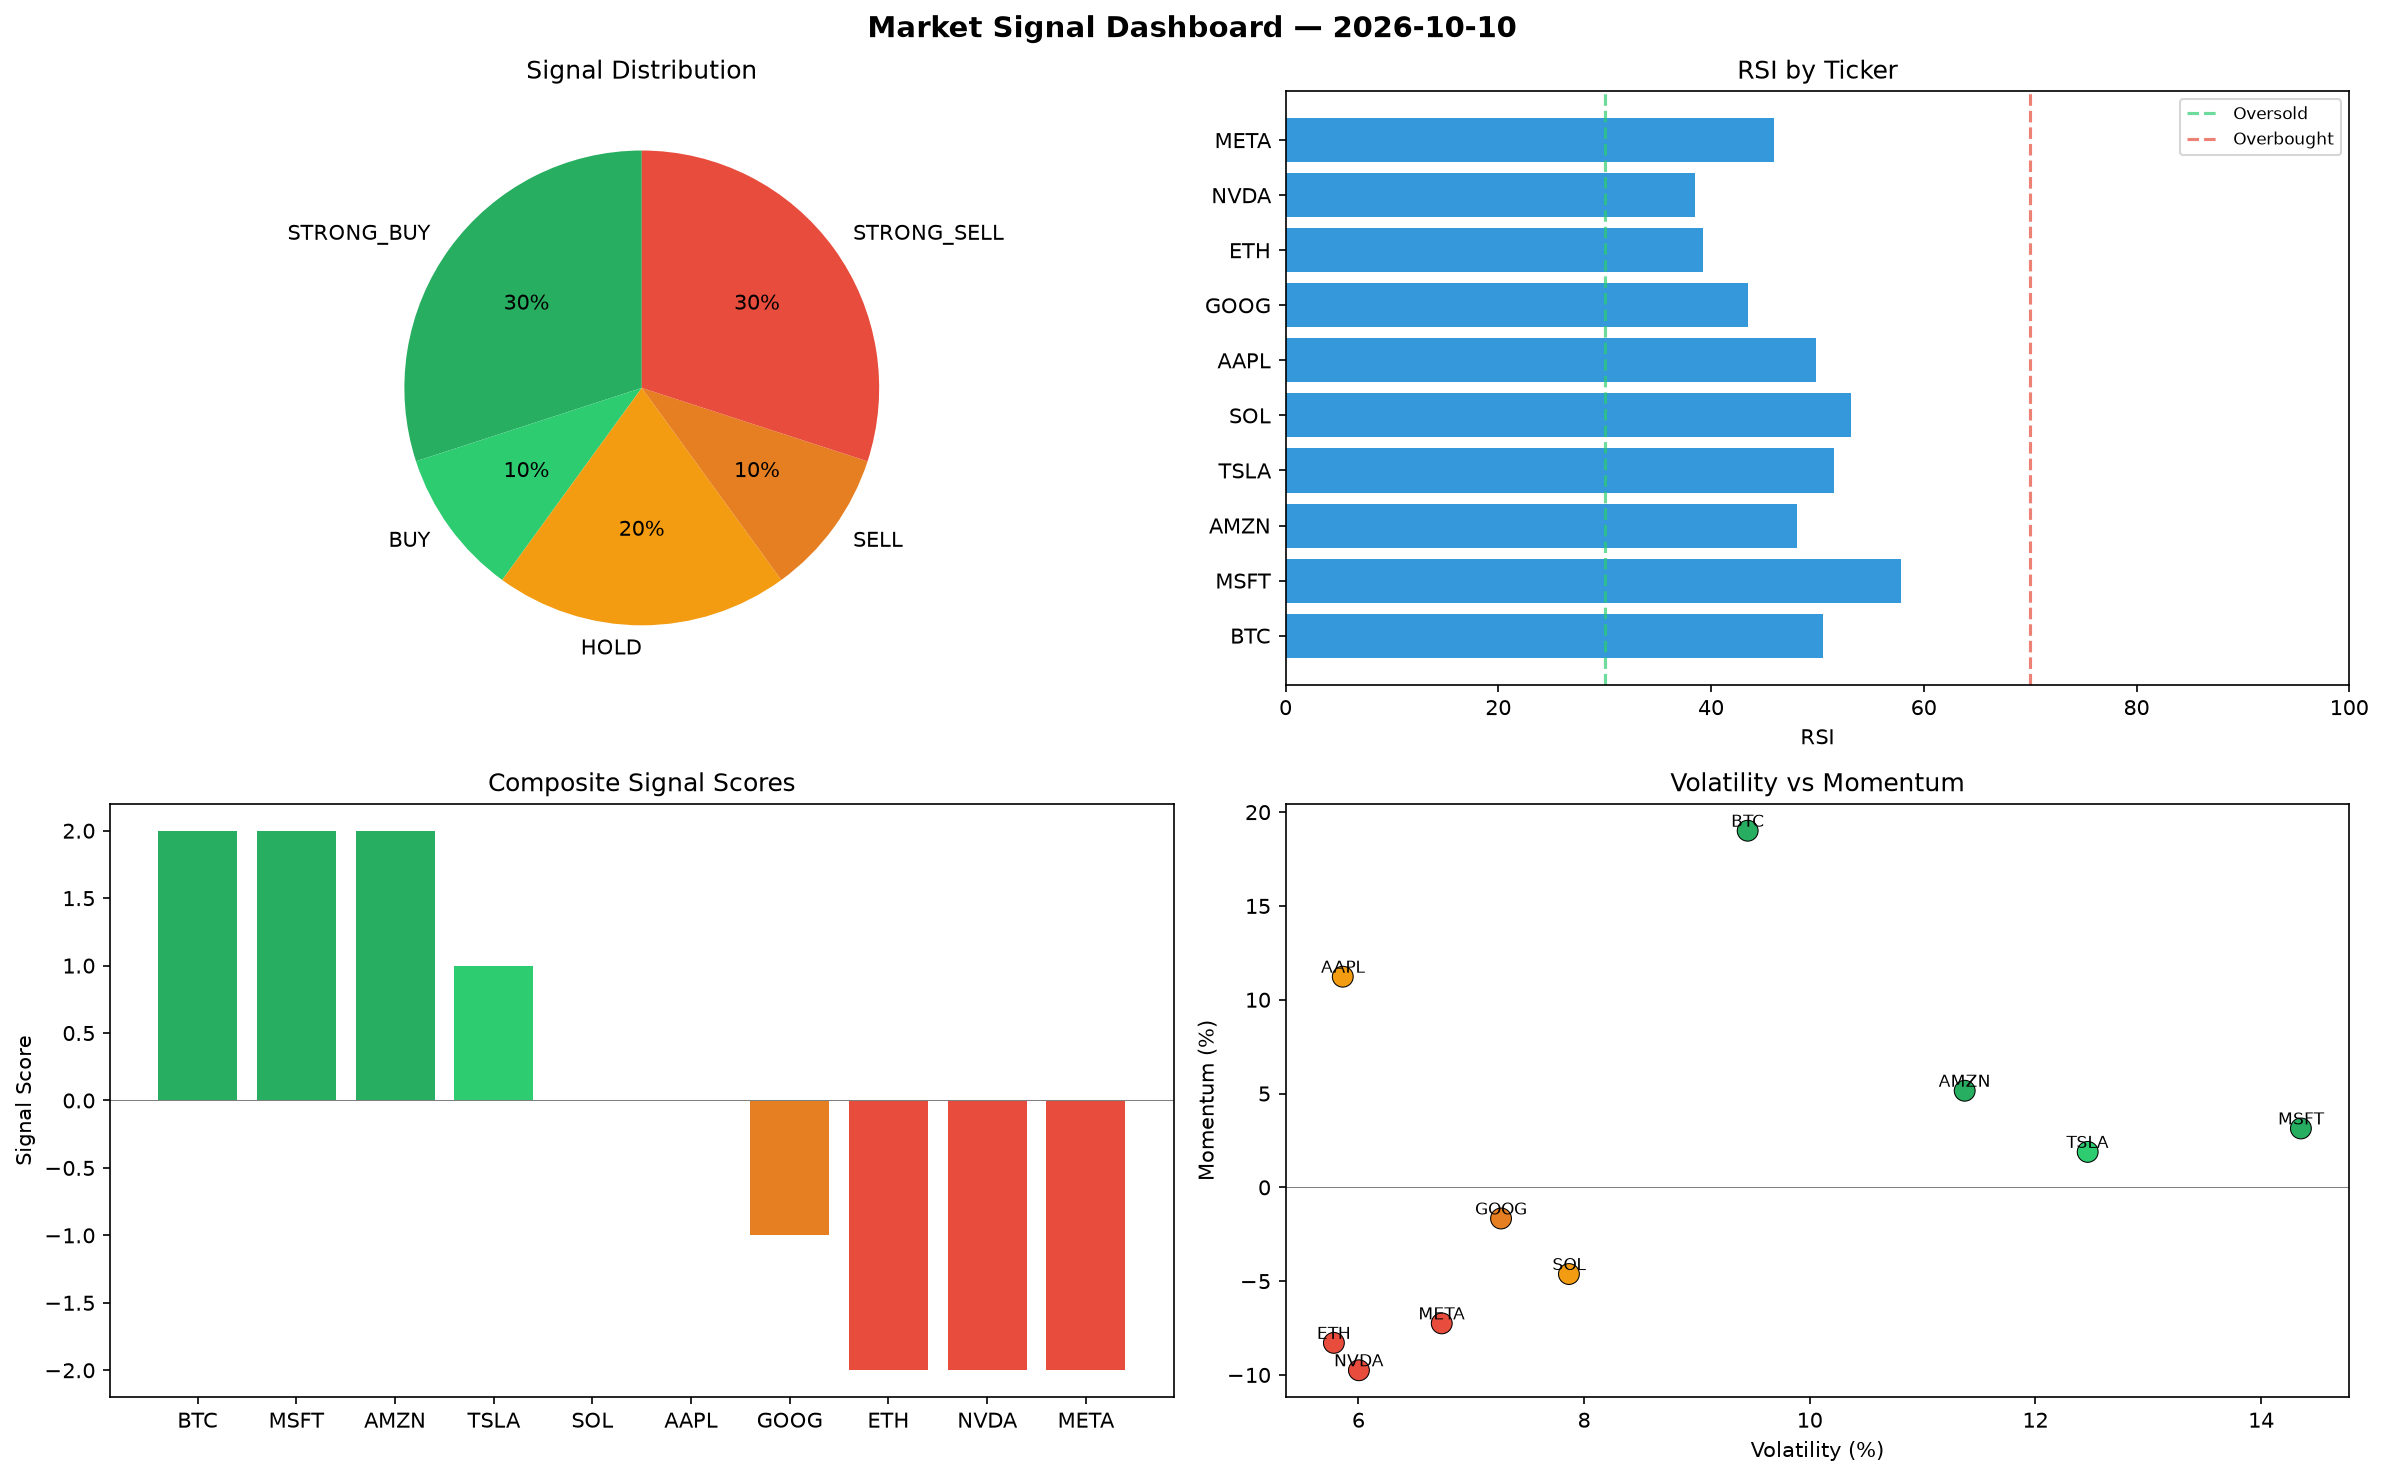
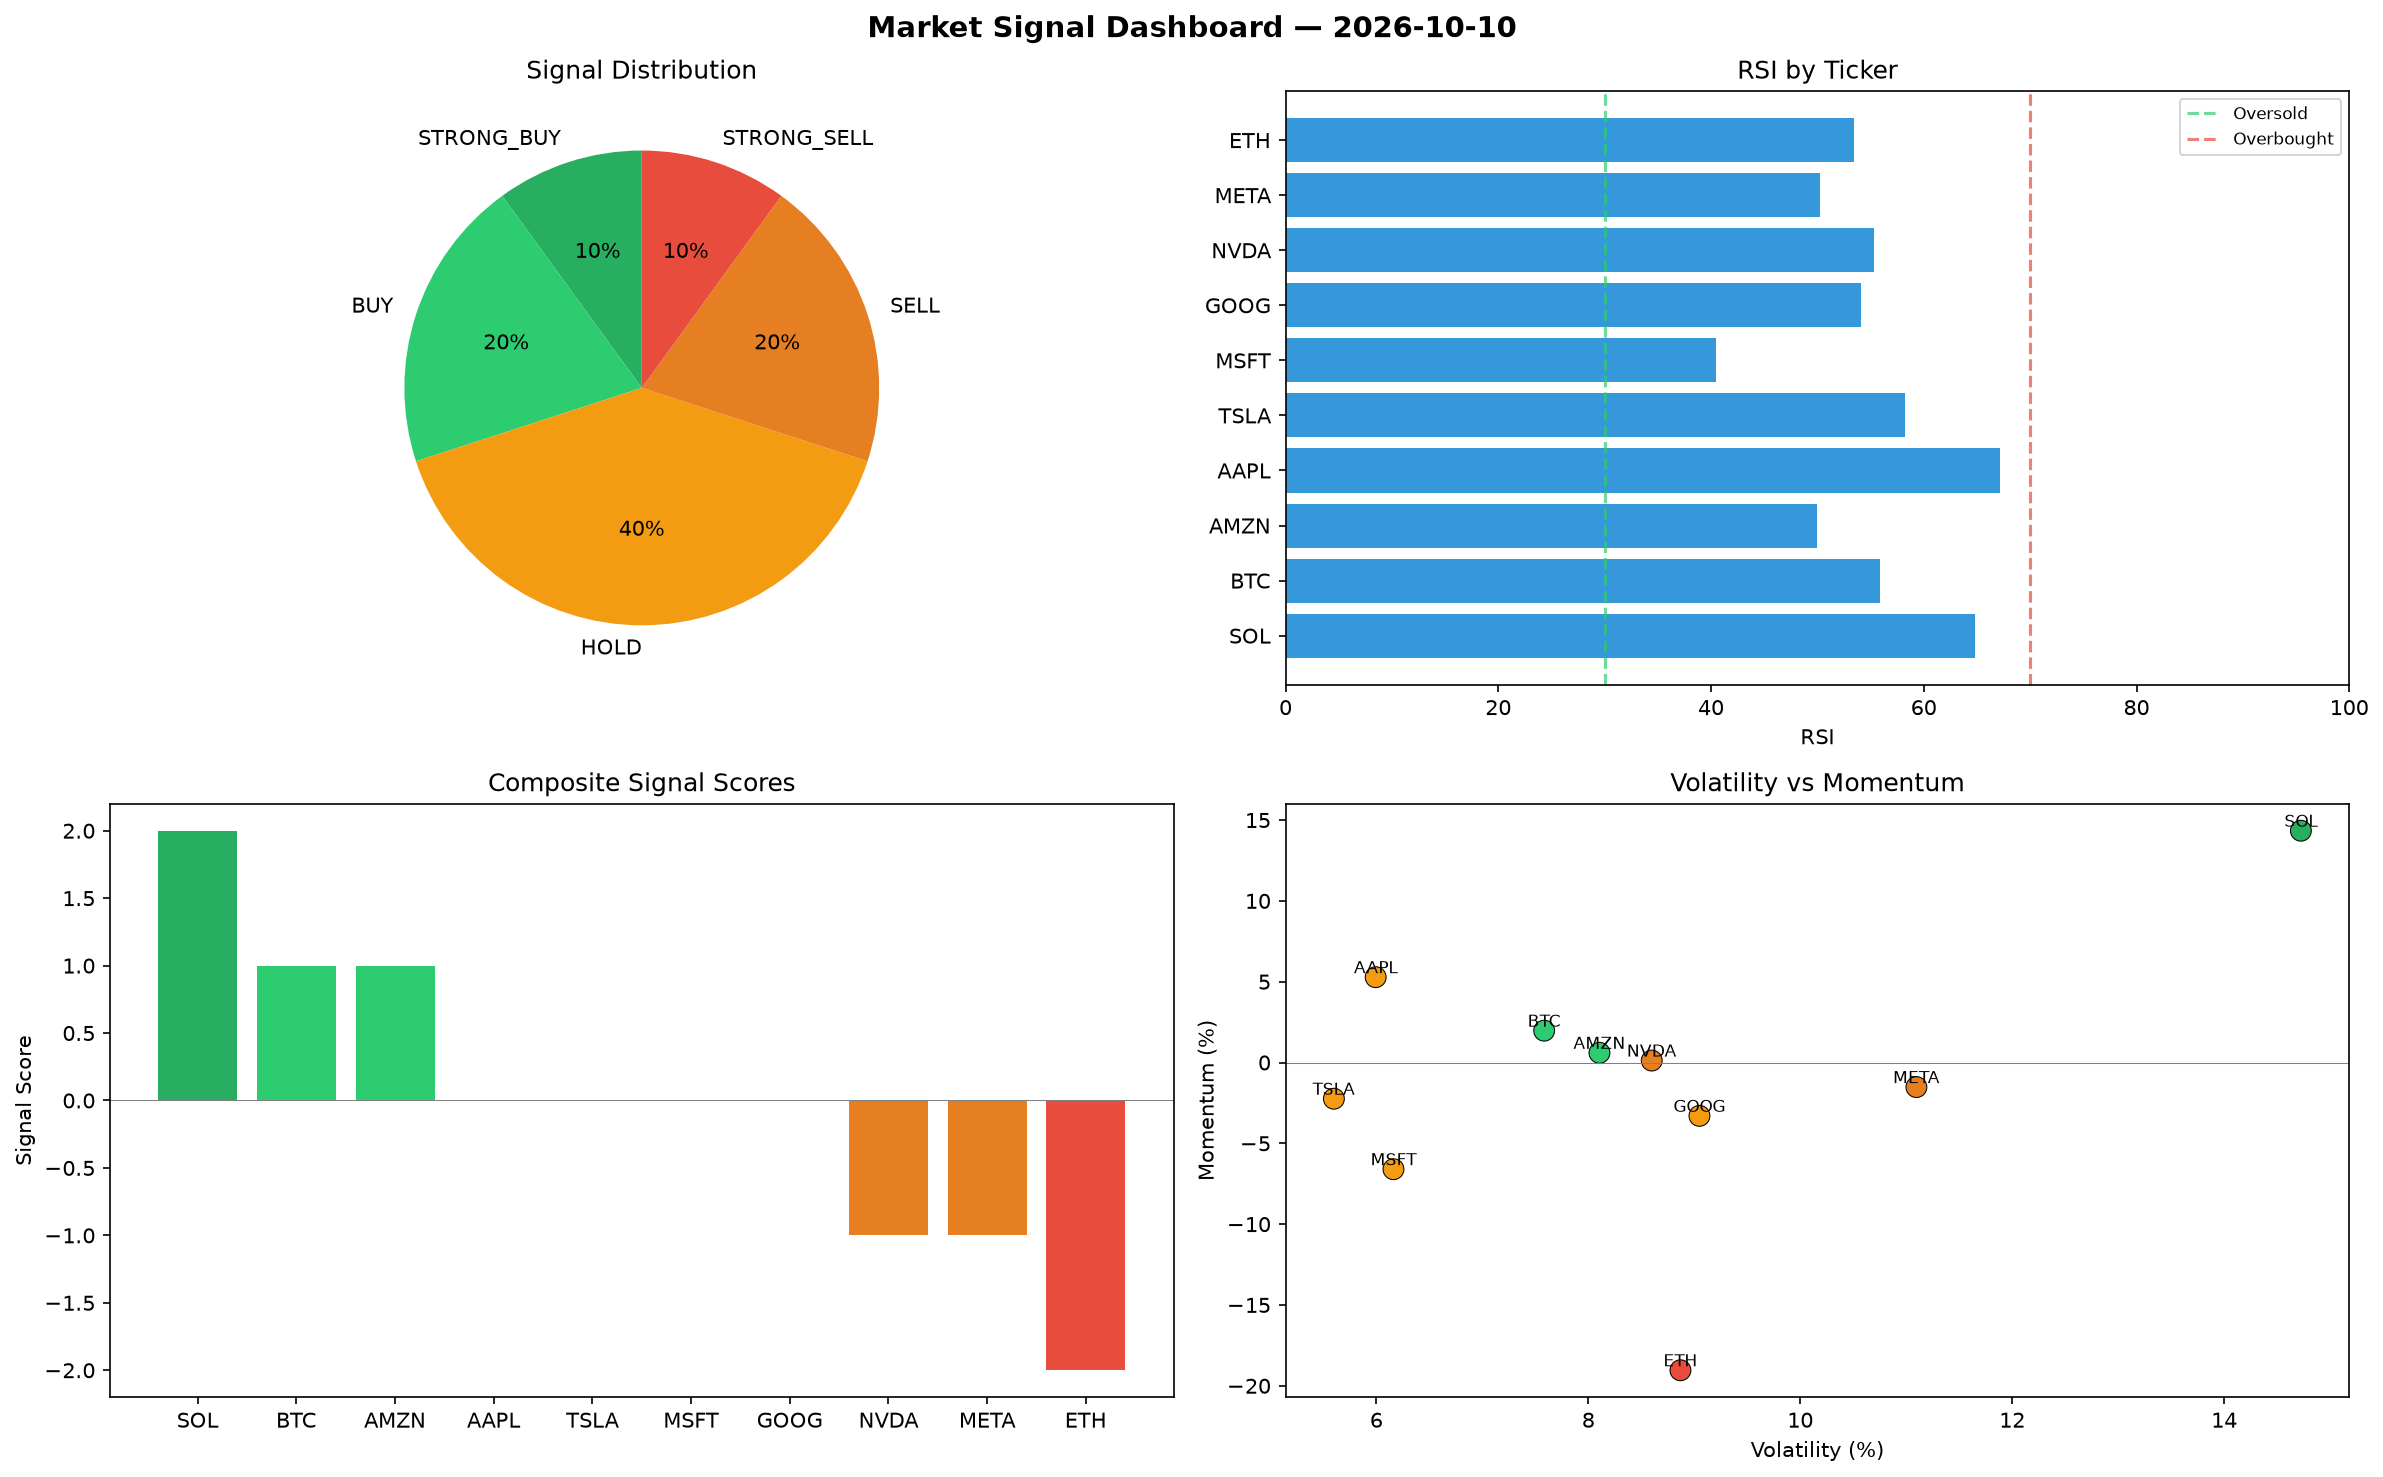
automated-bots: market signals 2026-10-10T14:34

diff --git a/logs/2026-10-10.md b/logs/2026-10-10.md
@@ -1,6 +1,6 @@
 # Market Signal Report — 2026-10-10
 
-**Run ID:** `f7a6d4ac05` | **Buy:** 4 | **Sell:** 4 | **Hold:** 2
+**Run ID:** `367955a3bb` | **Buy:** 3 | **Sell:** 3 | **Hold:** 4
 
 ![Dashboard](2026-10-10_dashboard.png)
 
@@ -8,28 +8,28 @@
 
 | Ticker | Price | Signal | Score | RSI | Momentum | Confidence |
 |--------|-------|--------|-------|-----|----------|------------|
-| BTC | $5120.82 | **STRONG_BUY** | 2 | 50.53 | 0.1901 | 0.5 |
-| MSFT | $1627.07 | **STRONG_BUY** | 2 | 57.88 | 0.0314 | 0.5 |
-| AMZN | $2901.66 | **STRONG_BUY** | 2 | 48.12 | 0.0515 | 0.5 |
-| TSLA | $1427.71 | **BUY** | 1 | 51.53 | 0.0189 | 0.25 |
-| SOL | $680.74 | **HOLD** | 0 | 53.14 | -0.0462 | 0.0 |
-| AAPL | $2719.14 | **HOLD** | 0 | 49.91 | 0.1123 | 0.0 |
-| GOOG | $668.21 | **SELL** | -1 | 43.49 | -0.0166 | 0.25 |
-| ETH | $2395.89 | **STRONG_SELL** | -2 | 39.23 | -0.0829 | 0.5 |
-| NVDA | $4337.36 | **STRONG_SELL** | -2 | 38.52 | -0.0975 | 0.5 |
-| META | $3408.61 | **STRONG_SELL** | -2 | 45.88 | -0.0725 | 0.5 |
+| SOL | $1665.43 | **STRONG_BUY** | 2 | 64.82 | 0.1434 | 0.5 |
+| BTC | $2265.84 | **BUY** | 1 | 55.9 | 0.0197 | 0.25 |
+| AMZN | $1228.49 | **BUY** | 1 | 49.99 | 0.006 | 0.25 |
+| AAPL | $297.69 | **HOLD** | 0 | 67.17 | 0.0528 | 0.0 |
+| TSLA | $4180.28 | **HOLD** | 0 | 58.25 | -0.0224 | 0.0 |
+| MSFT | $3874.08 | **HOLD** | 0 | 40.46 | -0.066 | 0.0 |
+| GOOG | $356.92 | **HOLD** | 0 | 54.13 | -0.033 | 0.0 |
+| NVDA | $3220.52 | **SELL** | -1 | 55.29 | 0.0012 | 0.25 |
+| META | $2923.28 | **SELL** | -1 | 50.29 | -0.0152 | 0.25 |
+| ETH | $3881.41 | **STRONG_SELL** | -2 | 53.44 | -0.1904 | 0.5 |
 
 ## Delta vs Yesterday
 
 | Ticker | Today | Yesterday | Price Change | Signal Changed |
 |--------|-------|-----------|-------------|----------------|
-| BTC | STRONG_BUY | STRONG_SELL | 📈 65.15% | ⚠ YES |
-| MSFT | STRONG_BUY | HOLD | 📈 610.39% | ⚠ YES |
-| AMZN | STRONG_BUY | HOLD | 📈 566.21% | ⚠ YES |
-| TSLA | BUY | STRONG_BUY | 📉 -38.16% | ⚠ YES |
-| SOL | HOLD | STRONG_BUY | 📉 -4.46% | ⚠ YES |
-| AAPL | HOLD | STRONG_BUY | 📉 -55.44% | ⚠ YES |
-| GOOG | SELL | STRONG_BUY | 📉 -81.79% | ⚠ YES |
-| ETH | STRONG_SELL | SELL | 📈 601.35% | ⚠ YES |
-| NVDA | STRONG_SELL | HOLD | 📈 63.91% | ⚠ YES |
-| META | STRONG_SELL | STRONG_BUY | 📈 1563.87% | ⚠ YES |
+| SOL | STRONG_BUY | STRONG_BUY | 📈 133.75% | — |
+| BTC | BUY | STRONG_SELL | 📉 -26.93% | ⚠ YES |
+| AMZN | BUY | HOLD | 📈 182.05% | ⚠ YES |
+| AAPL | HOLD | STRONG_BUY | 📉 -95.12% | ⚠ YES |
+| TSLA | HOLD | STRONG_BUY | 📈 81.07% | ⚠ YES |
+| MSFT | HOLD | HOLD | 📈 1591.44% | — |
+| GOOG | HOLD | STRONG_BUY | 📉 -90.27% | ⚠ YES |
+| NVDA | SELL | HOLD | 📈 21.7% | ⚠ YES |
+| META | SELL | STRONG_BUY | 📈 1326.96% | ⚠ YES |
+| ETH | STRONG_SELL | SELL | 📈 1036.21% | ⚠ YES |
